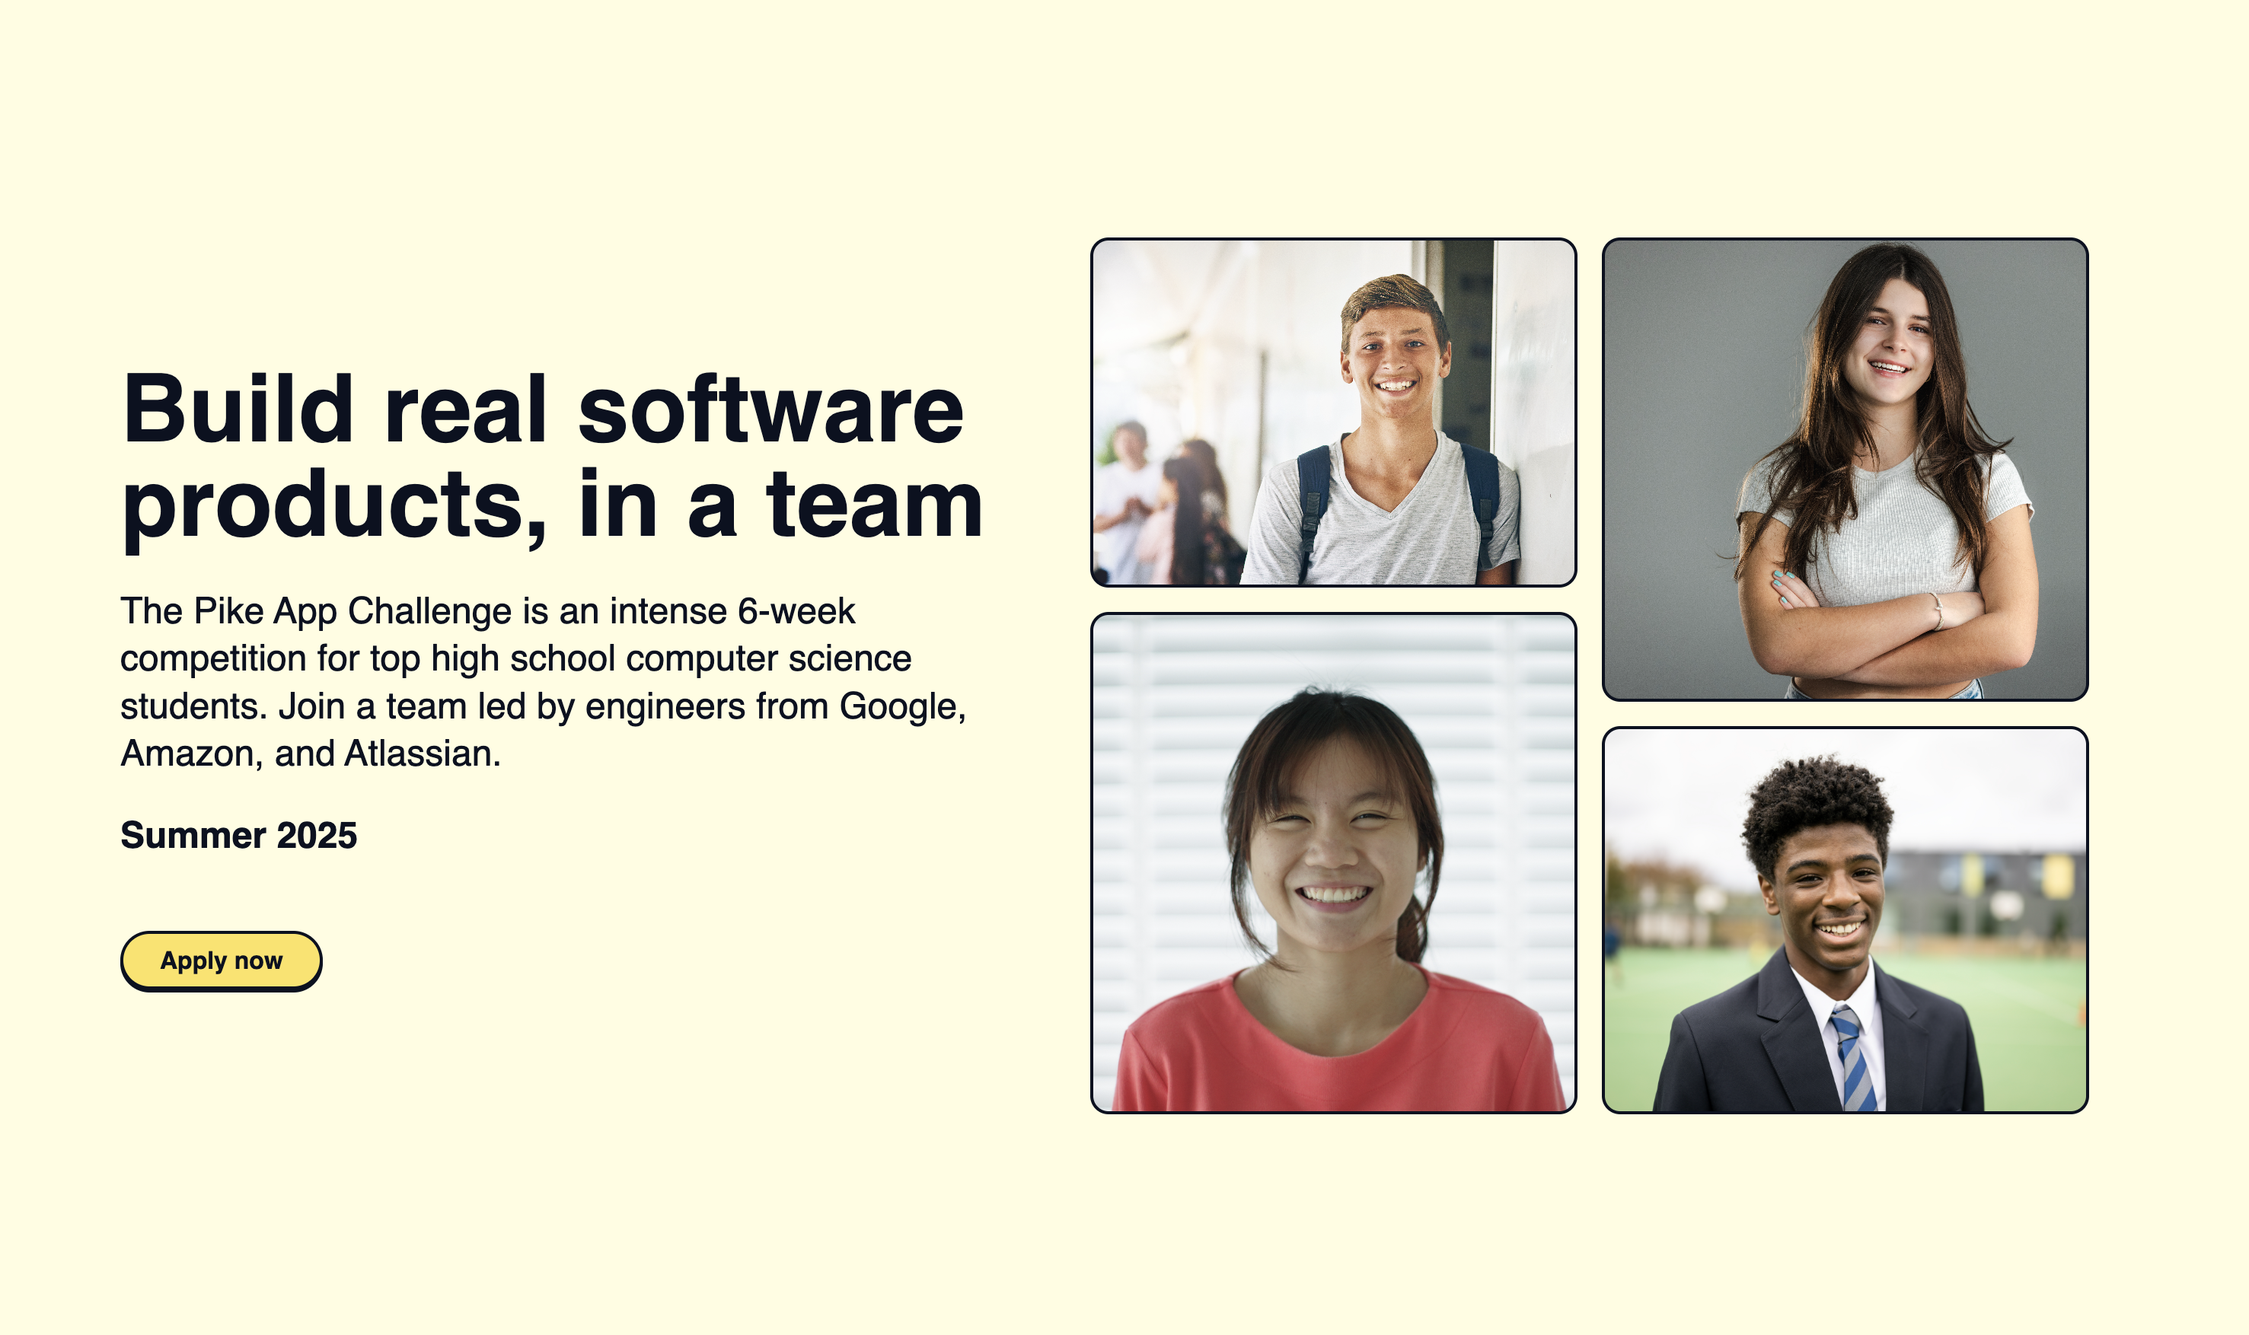
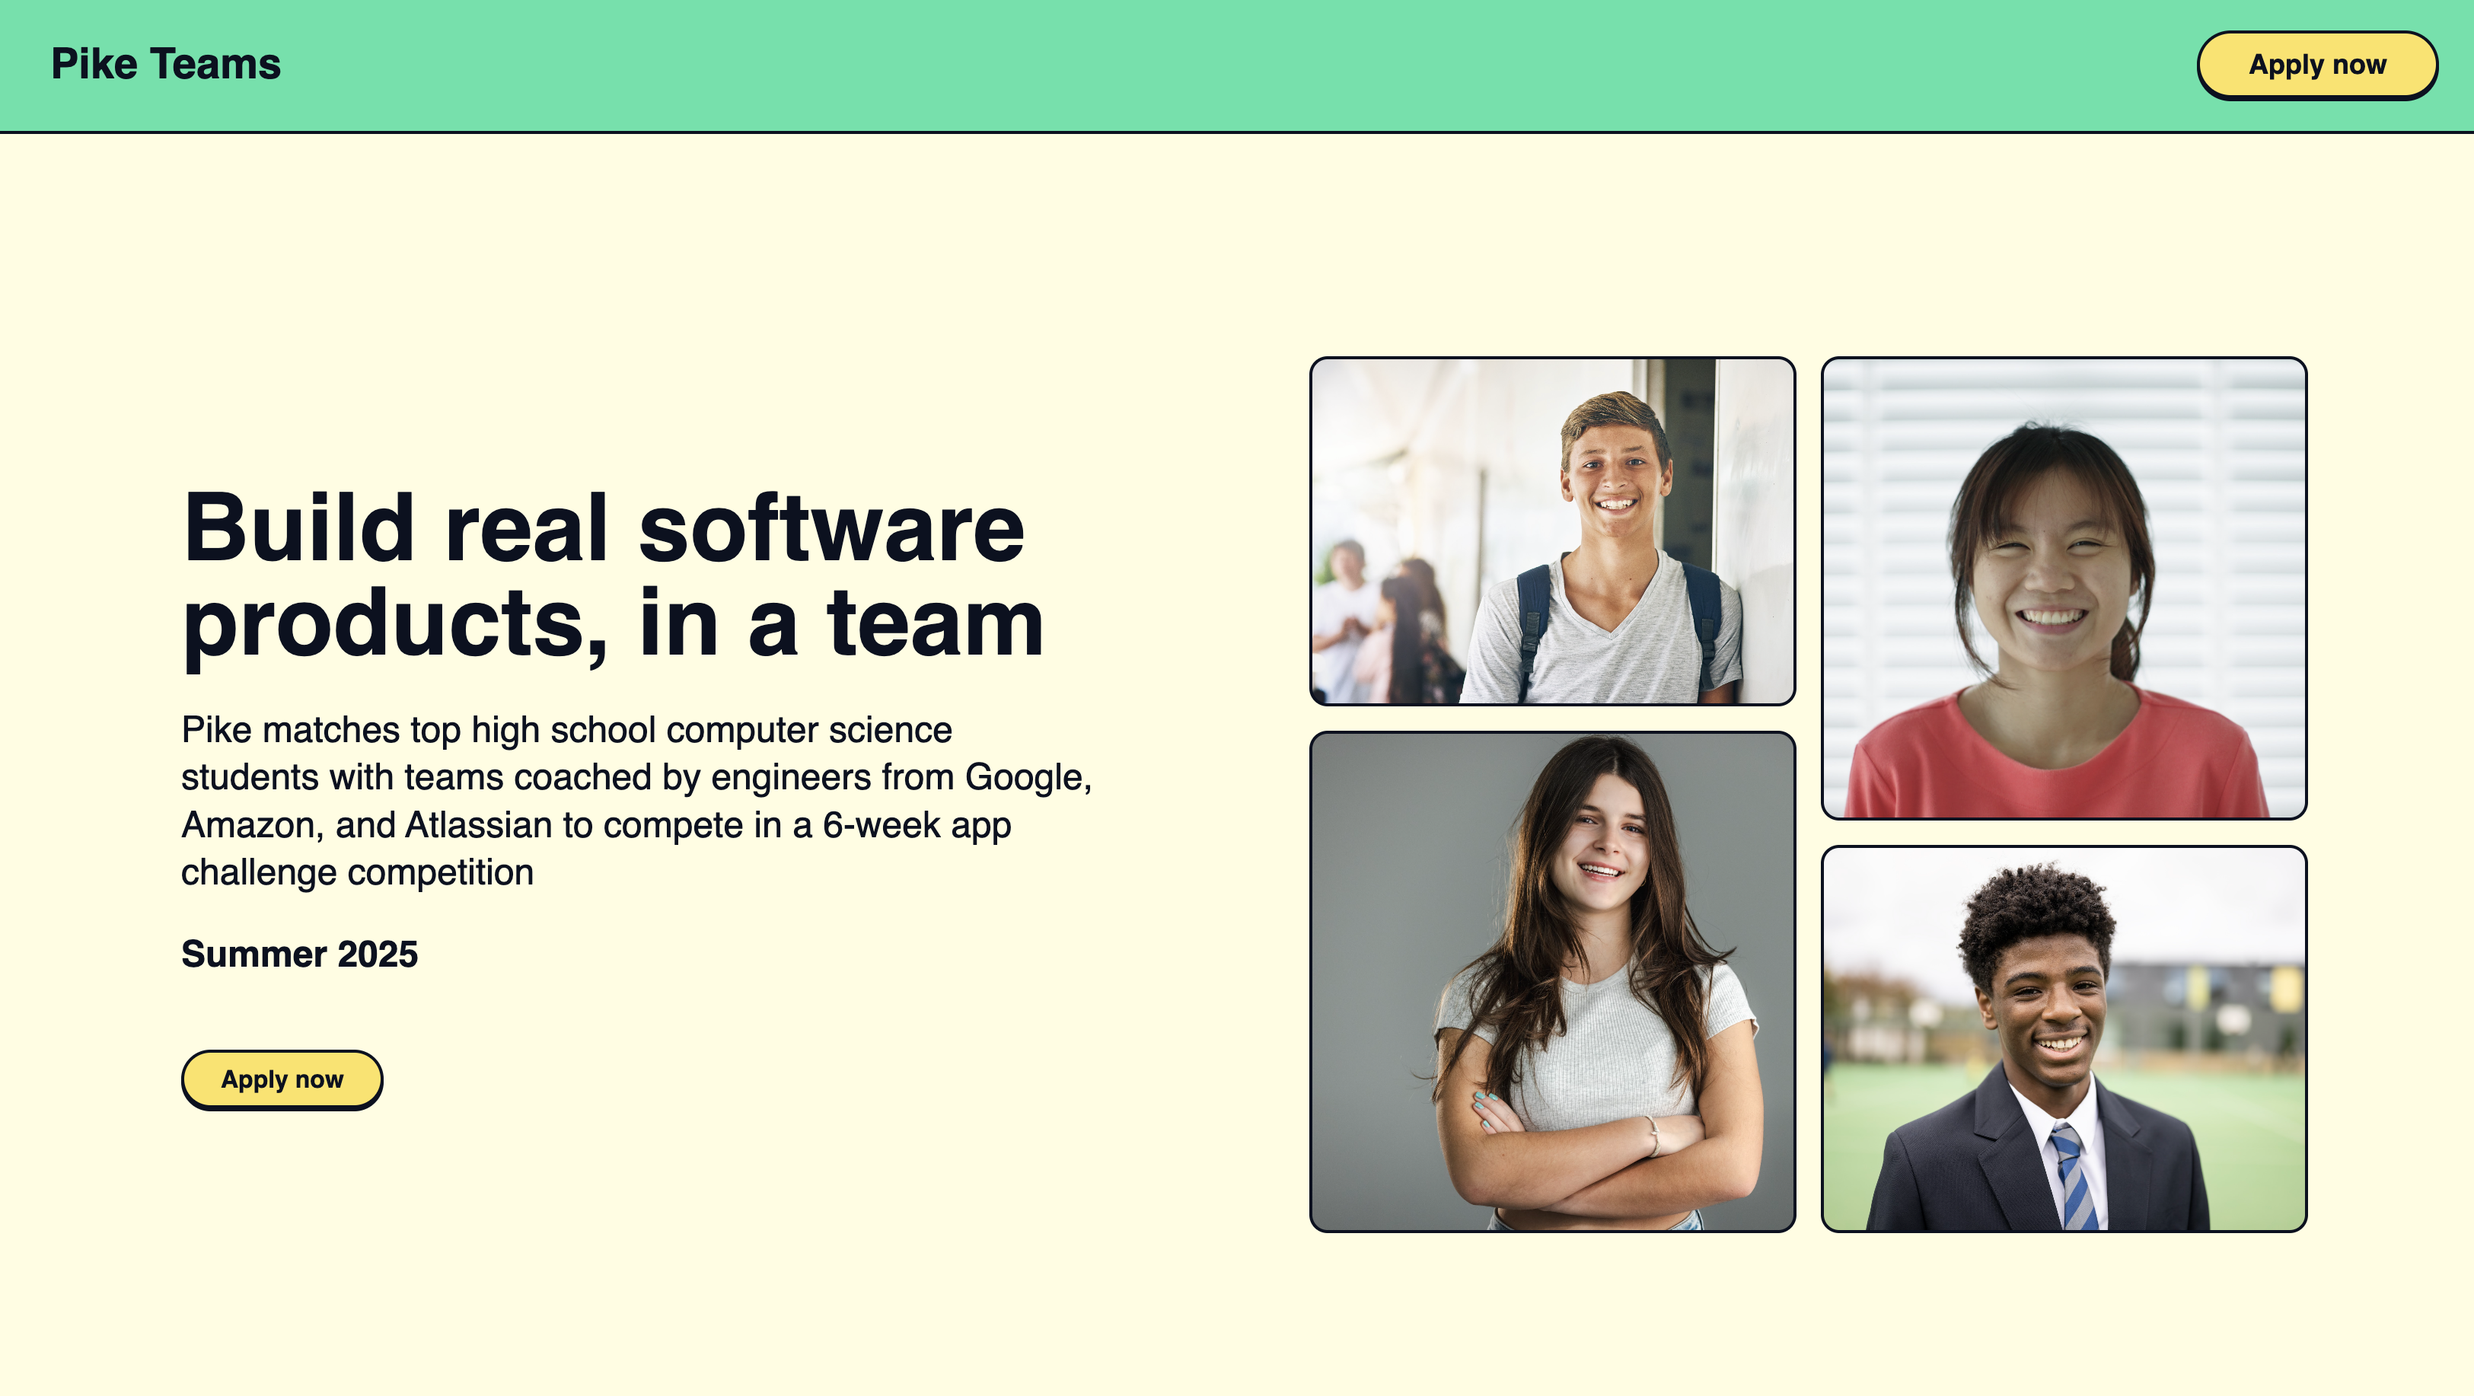
fixed session data

diff --git a/src/Teams.jsx b/src/Teams.jsx
@@ -13,8 +13,13 @@ import golpari from './images/golpari.png';
 import matan from './images/matan.jpeg';
 import kuai from './images/kuai.png';
 import { Link } from 'react-router-dom';
+// Import session data
+import { sessionData as creativeSessionData } from './CreativeCoding/creativeSessionData';
+import { sessionData as gameDevSessionData } from './GameDevTeam/gameDevSessionData';
+import { sessionData as aiSessionData } from './AITeam/aiSessionData';
+import { sessionData as nlpSessionData } from './NLPTeam/nlpSessionData';
 
-const TeamCard = ({ level, title, sessions, backgroundPath, route, bio, coach }) => {
+const TeamCard = ({ level, title, backgroundPath, route, bio, coach, sessionData }) => {
   const isAdvanced = level.toLowerCase() === "advanced";
   const levelClass = isAdvanced ? "advanced" : "intro";
 
@@ -30,9 +35,12 @@ const TeamCard = ({ level, title, sessions, backgroundPath, route, bio, coach })
           <div className={`level-badge ${levelClass}`}>{level}</div>
           <h3>{title}</h3>
           {coach && <p className="coach-name"><strong>Coach</strong> <strong>{coach}</strong></p>}
-          {sessions.map((session, index) => (
-            <p key={index}>{session}</p>
-          ))}
+          <p><strong>Dates:</strong> {sessionData.map((session, index) => (
+            <span key={session.id}>
+              {index > 0 ? ', ' : ''}{session.dates}
+            </span>
+          ))}</p>
+          <p><strong>Meeting Times:</strong> {sessionData[0].time}</p>
           {bio && <p className="team-bio">{bio}</p>}
         </div>
       </div>
@@ -48,9 +56,7 @@ const Teams = () => {
       backgroundPath: rick,
       coach: "Rick Zhang",
       route: "/creativecodingteam",
-      sessions: [
-        "June 9 - July 18th. Mondays and Wednesdays, 6-8pm EST"
-      ],
+      sessionData: creativeSessionData,
       bio: "Coach Rick studied computer science and art at Carnegie Mellon University and currently a Machine Learning Engineer at Atlassian.",
     },
     {
@@ -59,9 +65,7 @@ const Teams = () => {
       backgroundPath: golpari,
       coach: "Golpari Abari",
       route: "/gamedevteam",
-      sessions: [
-        "June 9 - July 18th. Tuesdays and Thursdays, 6-8pm PST",
-      ],
+      sessionData: gameDevSessionData,
       bio: "Coach Golpari studied computer science and art at University of Michigan and is a current software engineer at Blizzard Entertainment.",
     },
     {
@@ -70,7 +74,7 @@ const Teams = () => {
       backgroundPath: matan,
       coach: "Matan Gans",
       route: "/aiteam",
-      sessions: ["June 9 - July 18th. Tuesdays and Thursdays, 6-8pm EST"],
+      sessionData: aiSessionData,
       bio: "Coach Matan is a former Amazon engineer and studied computer science at Brown University. He has been teaching and mentoring students in programming for over 3 years.",
     },
     {
@@ -79,11 +83,10 @@ const Teams = () => {
       backgroundPath: kuai,
       coach: "Kuai Yu",
       route: "/nlpteam",
-      sessions: ["June 9 - July 18th. Tuesdays and Thursdays, 5-7pm PST"],
+      sessionData: nlpSessionData,
       bio: "Coach Kuai is a director of engineering at a startup in the Bay Area and was previously a software engineer at Google.",
     },
   ];
-
 
   return (
     <section className="teams">

diff --git a/src/CreativeCoding/CreativeTuition.jsx b/src/CreativeCoding/CreativeTuition.jsx
@@ -1,5 +1,6 @@
 import React from 'react';
 import './CreativeTuition.css';
+import { sessionData } from './creativeSessionData';
 
 const CreativeTuition = () => {
   return (
@@ -9,12 +10,22 @@ const CreativeTuition = () => {
         <p className="tuition-cost">The cost is $1000 for the 6 week program (24 meeting hours)</p>
         <p className="tuition-note">With that said, accessibility is very important to us.</p>
         <p className="tuition-aid">We offer financial aid for all families below $200k in household income.</p>
-        <button className="tuition-apply-button">Apply now</button>
+        <a 
+          href="https://airtable.com/appjy9bfsSpDxkkdH/pag2lPoEXUuNpLbmp/form"
+          target="_blank"
+          rel="noopener noreferrer"
+          className="tuition-apply-button"
+        >
+          Apply now
+        </a>
         <div className="session-cards">
-          <div className="session-card">
-            <h3>June 9 – July 18</h3>
-            <p className="session-time">Mondays and Wednesdays, 6–8 PM EST</p>
-          </div>
+          {sessionData.map(session => (
+            <div key={session.id} className="session-card">
+              <p className="session-date">{session.title}</p>
+              <h3>{session.dates}</h3>
+              <p className="session-time">{session.time}</p>
+            </div>
+          ))}
         </div>
       </div>
     </div>

diff --git a/src/GameDevTeam/GameDevTuition.jsx b/src/GameDevTeam/GameDevTuition.jsx
@@ -1,5 +1,6 @@
 import React from 'react';
 import './GameDevTuition.css';
+import { sessionData } from './gameDevSessionData';
 
 const GameDevTuition = () => {
   return (
@@ -9,13 +10,23 @@ const GameDevTuition = () => {
         <p className="tuition-cost">The cost is $1000 for the 6 week program (24 meeting hours)</p>
         <p className="tuition-note">With that said, accessibility is very important to us.</p>
         <p className="tuition-aid">We offer financial aid for all families below $200k in household income.</p>
-        <button className="tuition-apply-button">Apply now</button>
+        <a 
+          href="https://airtable.com/appjy9bfsSpDxkkdH/pag2lPoEXUuNpLbmp/form"
+          target="_blank"
+          rel="noopener noreferrer"
+          className="tuition-apply-button"
+        >
+          Apply now
+        </a>
         <div className="session-cards">
-        <div className="session-card">
-          <h3>June 9 - July 18</h3>
-          <p className="session-time">Tuesdays and Thursdays, 6–8 PM PST</p>
+          {sessionData.map(session => (
+            <div key={session.id} className="session-card">
+              <p className="session-date">{session.title}</p>
+              <h3>{session.dates}</h3>
+              <p className="session-time">{session.time}</p>
+            </div>
+          ))}
         </div>
-      </div>
       </div>
     </div>
   );

diff --git a/src/NLPTeam/NLPTuition.jsx b/src/NLPTeam/NLPTuition.jsx
@@ -1,5 +1,6 @@
 import React from 'react';
 import './NLPTuition.css';
+import { sessionData } from './nlpSessionData';
 
 const NLPTuition = () => {
   return (
@@ -9,12 +10,22 @@ const NLPTuition = () => {
         <p className="tuition-cost">The cost is $1000 for the 6 week program (24 meeting hours)</p>
         <p className="tuition-note">With that said, accessibility is very important to us.</p>
         <p className="tuition-aid">We offer financial aid for all families below $200k in household income.</p>
-        <button className="tuition-apply-button">Apply now</button>
+        <a 
+          href="https://airtable.com/appjy9bfsSpDxkkdH/pag2lPoEXUuNpLbmp/form"
+          target="_blank"
+          rel="noopener noreferrer"
+          className="tuition-apply-button"
+        >
+          Apply now
+        </a>
         <div className="session-cards">
-          <div className="session-card">
-            <h3>July 8 - July 17</h3>
-            <p className="session-time">Tuesdays and Thursdays, 6–8 PM PST</p>
-          </div>
+          {sessionData.map(session => (
+            <div key={session.id} className="session-card">
+              <p className="session-date">{session.title}</p>
+              <h3>{session.dates}</h3>
+              <p className="session-time">{session.time}</p>
+            </div>
+          ))}
         </div>
       </div>
     </div>

diff --git a/src/AITeam/AITuition.jsx b/src/AITeam/AITuition.jsx
@@ -1,5 +1,6 @@
 import React from 'react';
 import './AITuition.css';
+import { sessionData } from './aiSessionData';
 
 const AITuition = () => {
   return (
@@ -9,12 +10,22 @@ const AITuition = () => {
         <p className="tuition-cost">The cost is $1000 for the 6 week program (24 meeting hours)</p>
         <p className="tuition-note">With that said, accessibility is very important to us.</p>
         <p className="tuition-aid">We offer financial aid for all families below $200k in household income.</p>
-        <button className="tuition-apply-button">Apply now</button>
+        <a 
+          href="https://airtable.com/appjy9bfsSpDxkkdH/pag2lPoEXUuNpLbmp/form"
+          target="_blank"
+          rel="noopener noreferrer"
+          className="tuition-apply-button"
+        >
+          Apply now
+        </a>
         <div className="session-cards">
-          <div className="session-card">
-            <h3>July 9 - July 18</h3>
-            <p className="session-time">Tuesdays and Thursdays, 6–8 PM PST</p>
-          </div>
+          {sessionData.map(session => (
+            <div key={session.id} className="session-card">
+              <p className="session-date">{session.title}</p>
+              <h3>{session.dates}</h3>
+              <p className="session-time">{session.time}</p>
+            </div>
+          ))}
         </div>
       </div>
     </div>

diff --git a/src/LandingHeader.jsx b/src/LandingHeader.jsx
@@ -11,13 +11,16 @@ const LandingHeader = () => {
       <div className="content">
         <h1>Build real software products, in a team</h1>
         <p className="header-description">
-          The Pike App Challenge is an intense 6-week competition for top
-          high school computer science students. Join a team led by engineers
-          from Google, Amazon, and Atlassian.
+        Pike matches top high school computer science students with teams coached by engineers from Google, Amazon, and Atlassian to compete in a 6-week app challenge competition
         </p>
         <div className="cta-container">
           <p className="date">Summer 2025</p>
-          <a href="#apply" className="cta-button">
+          <a 
+            href="https://airtable.com/appjy9bfsSpDxkkdH/pag2lPoEXUuNpLbmp/form" 
+            target="_blank" 
+            rel="noopener noreferrer"
+            className="cta-button"
+          >
             Apply now
           </a>
         </div>

diff --git a/src/CreativeCoding/CreativeTeamNextSession.jsx b/src/CreativeCoding/CreativeTeamNextSession.jsx
@@ -1,15 +1,19 @@
 import React from 'react';
 import './CreativeTeamNextSession.css';
+import { sessionData } from './creativeSessionData';
 
 const CreativeTeamNextSession = () => {
   return (
     <div className="next-session">
       <h2>When's the next session?</h2>
       <div className="session-cards">
-        <div className="session-card">
-          <h3>June 9 – July 18</h3>
-          <p className="session-time">Mondays and Wednesdays, 6–8 PM EST</p>
-        </div>
+        {sessionData.map(session => (
+          <div key={session.id} className="session-card">
+            <p className="session-date">{session.title}</p>
+            <h3>{session.dates}</h3>
+            <p className="session-time">{session.time}</p>
+          </div>
+        ))}
       </div>
     </div>
   );

diff --git a/src/GameDevTeam/GameDevTeamNextSession.jsx b/src/GameDevTeam/GameDevTeamNextSession.jsx
@@ -1,15 +1,19 @@
 import React from 'react';
 import './GameDevTeamNextSession.css';
+import { sessionData } from './gameDevSessionData';
 
 const GameDevTeamNextSession = () => {
   return (
     <div className="next-session">
       <h2>When's the next session?</h2>
       <div className="session-cards">
-        <div className="session-card">
-          <h3>June 9 - July 18</h3>
-          <p className="session-time">Tuesdays and Thursdays, 6–8 PM PST</p>
-        </div>
+        {sessionData.map(session => (
+          <div key={session.id} className="session-card">
+            <p className="session-date">{session.title}</p>
+            <h3>{session.dates}</h3>
+            <p className="session-time">{session.time}</p>
+          </div>
+        ))}
       </div>
     </div>
   );

diff --git a/src/NLPTeam/NLPTeamNextSession.jsx b/src/NLPTeam/NLPTeamNextSession.jsx
@@ -1,15 +1,19 @@
 import React from 'react';
 import './NLPTeamNextSession.css';
+import { sessionData } from './nlpSessionData';
 
 const NLPTeamNextSession = () => {
   return (
     <div className="next-session">
       <h2>When's the next session?</h2>
       <div className="session-cards">
-        <div className="session-card">
-          <h3>July 9 - July 18</h3>
-          <p className="session-time">Tuesdays and Thursdays, 6–8 PM PST</p>
-        </div>
+        {sessionData.map(session => (
+          <div key={session.id} className="session-card">
+            <p className="session-date">{session.title}</p>
+            <h3>{session.dates}</h3>
+            <p className="session-time">{session.time}</p>
+          </div>
+        ))}
       </div>
     </div>
   );

diff --git a/src/AITeam/AITeamNextSession.jsx b/src/AITeam/AITeamNextSession.jsx
@@ -1,15 +1,19 @@
 import React from 'react';
 import './AITeamNextSession.css';
+import { sessionData } from './aiSessionData';
 
 const AITeamNextSession = () => {
   return (
     <div className="next-session">
       <h2>When's the next session?</h2>
       <div className="session-cards">
-        <div className="session-card">
-          <h3>July 9 - July 18</h3>
-          <p className="session-time">Tuesdays and Thursdays, 6–8 PM PST</p>
-        </div>
+        {sessionData.map(session => (
+          <div key={session.id} className="session-card">
+            <p className="session-date">{session.title}</p>
+            <h3>{session.dates}</h3>
+            <p className="session-time">{session.time}</p>
+          </div>
+        ))}
       </div>
     </div>
   );

diff --git a/src/Navbar.jsx b/src/Navbar.jsx
@@ -14,9 +14,14 @@ const Navbar = () => {
       <div className="navbar-brand" onClick={handleHomeClick} style={{ cursor: 'pointer' }}>
         Pike Teams
       </div>
-      <button className="navbar-apply-button">
+      <a 
+        href="https://airtable.com/appjy9bfsSpDxkkdH/pag2lPoEXUuNpLbmp/form"
+        target="_blank"
+        rel="noopener noreferrer"
+        className="navbar-apply-button"
+      >
         Apply now
-      </button>
+      </a>
     </nav>
   );
 };

diff --git a/src/Apply.jsx b/src/Apply.jsx
@@ -8,7 +8,7 @@ const Apply = () => {
         <h2 className="apply-title">Apply to join today!</h2>
         <p className="apply-description">We're currently accepting applications for our summer teams. Apply now to secure your spot!</p>
         <a 
-          href="https://google.com" 
+          href="https://airtable.com/appjy9bfsSpDxkkdH/pag2lPoEXUuNpLbmp/form" 
           target="_blank" 
           rel="noopener noreferrer"
           className="apply-button"
